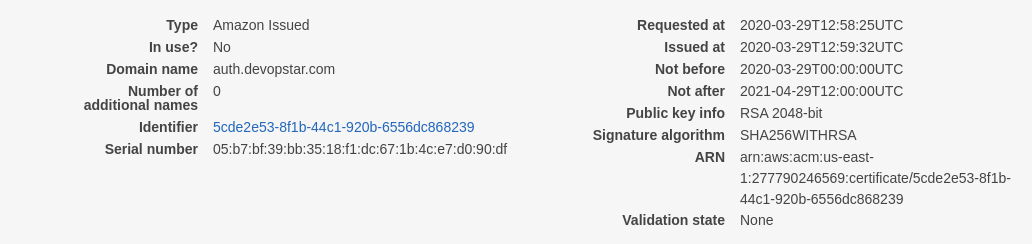
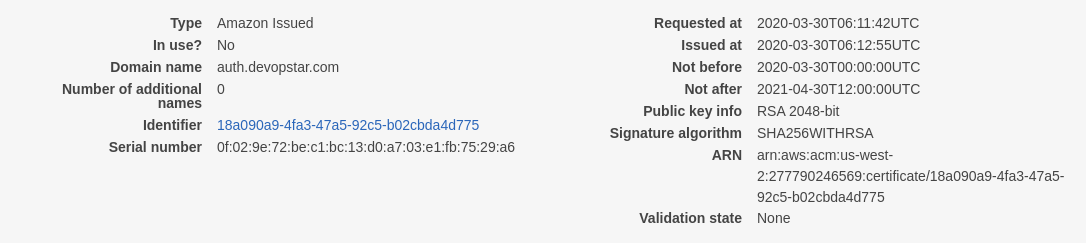
updated

diff --git a/.blog/README.md b/.blog/README.md
@@ -37,10 +37,10 @@ Run the following command from our project repo to deploy the stack.
 
 ```bash
 aws cloudformation create-stack \
-    --stack-name "eks-kubeflow-cognito" \
-    --template-body file://eks-kubeflow-cognito.yaml \
-    --capabilities CAPABILITY_IAM \
-    --region us-west-2
+  --stack-name "eks-kubeflow-cognito" \
+  --template-body file://eks-kubeflow-cognito.yaml \
+  --capabilities CAPABILITY_IAM \
+  --region us-west-2
 ```
 
 > Later in this tutorial you will need to retrieve the Cognito details from the CloudFormation stack. This is done by using the `aws cloudformation describe-stacks` CLI command.
@@ -72,14 +72,24 @@ Before continuing to the next step, take note of the Certificate ARN
 > NOTE: Take note of the ARN somewhere where we can use it later, in my case I'll export it as an environment variable
 
 ```bash
-export AWS_ACM_CERT_ARN=arn:aws:acm:us-east-1:XXXXXXXXXXXX:certificate/5cde2e53-8f1b-44c1-920b-6556dc868239
+export AWS_ACM_CERT_ARN=arn:aws:acm:us-west-2:XXXXXXXXXXXX:certificate/5cde2e53-8f1b-44c1-920b-6556dc868239
 ```
 
 ### Domain Setup (Cognito)
 
-Now that the certificate is validated head over to the Amazon Cognito console **in the us-west-2 region**.
+Now that the certificate is validated head over to the Amazon Cognito console **in the us-west-2 region**. Create a new custom domain, in this case I've used `kubeflow-devopstar`
 
-![Cognito Custom domain creation](img/eks-kubeflow-cognito-custom-domain.png)
+![Cognito Custom domain creation](img/cognito-custom-domain.png)
+
+> **NOTE:** You also update the first line in `eks-kubeflow-install.sh` to match what you set here
+
+```bash
+export COGNITO_AUTH_DOMAIN=kubeflow-devopstar
+```
+
+It's also worth checking that the Enabled Identity Providers box is selected and Cognito User Pool is checked
+
+![Enabled Identity Providers flag](img/cognito-enable-identity-provider.png)
 
 Finally head over to Route53 and under your domain (in my case devopstar.com) create an Alias A record with the CloudFront entry provided in the previous setup
 
@@ -120,8 +130,8 @@ wget -O kfctl_aws.yaml $CONFIG_URI
 sed -i -e 's/kubeflow-aws/'"$AWS_CLUSTER_NAME"'/' ${CONFIG_FILE}
 sed -i "s@us-west-2@$AWS_REGION@" ${CONFIG_FILE}
 
-# Disable IAM roles
-sed -i "s@eksctl-eks-kubeflow-nodegroup-ng-a2-NodeInstanceRole-xxxxx@$AWS_CLUSTER_NODE_ROLE@" ${CONFIG_FILE}
+# Update Node IAM roles
+sed -i "s@eksctl-$AWS_CLUSTER_NAME-nodegroup-ng-a2-NodeInstanceRole-xxxxx@$AWS_CLUSTER_NODE_ROLE@" ${CONFIG_FILE}
 
 # Cognito Details
 sed -i "s@arn:aws:acm:us-west-2:xxxxx:certificate/xxxxxxxxxxxxx-xxxx@$AWS_ACM_CERT_ARN@" ${CONFIG_FILE}
@@ -140,13 +150,13 @@ To check that things have worked open up the `eks-kubeflow/kfctl_aws.yaml` templ
     spec:
       auth:
         cognito:
-          certArn: arn:aws:acm:us-east-1:xxxxxxxxxxxxx:certificate/5cde2e53-8f1b-44c1-920b-6556dc868239
+          certArn: arn:aws:acm:us-west-2:xxxxxxxxxxxxx:certificate/5cde2e53-8f1b-44c1-920b-6556dc868239
           cognitoAppClientId: 4coatq7l46irmkacnohbgjpom2
           cognitoUserPoolArn: arn:aws:cognito-idp:us-west-2:xxxxxxxxxxxxx:userpool/us-west-2_Izsf6MKFn
-          cognitoUserPoolDomain: auth.devopstar.com
+          cognitoUserPoolDomain: kubeflow-devopstar
       region: us-west-2
       roles:
-      - "eksctl-eks-kubeflow-nodegroup-nod-NodeInstanceRole-1AV291G6VREQL"
+      - eksctl-eks-kubeflow-nodegroup-nod-NodeInstanceRole-1AV291G6VREQL
 ```
 
 ### Deploy
@@ -175,10 +185,20 @@ Take this endpoint and contruct the following variation of it with the OAuth for
 
 ```bash
 https://${CLUSTER_ENDPOINT}/oauth2/idpresponse
-# https://82aa8b05-istiosystem-istio-2af2-1293882277.us-west-2.elb.amazonaws.com/oauth2/idpresponse
+# https://82aa8b05-istiosystem-istio-2af2-280604513.us-west-2.elb.amazonaws.com/oauth2/idpresponse
 ```
 
 Back in the Cognito console under our `App client settings` insert the callback URL we just constructed
+
+![Cognito Callback URL set](img/cognito-callback-url-set.png)
+
+Now we will also need a demo user to work with, so go ahead and make a new one under the `Users and groups` tab in the User Pool settings
+
+![Cognito Create new user](img/cognito-create-new-user.png)
+
+Finally we can navigate to the cluster endpoint that you retrieved from the `kubectl` command above and you'll be able to login with Cognito authentication.
+
+![Cognito Login using new user](img/cognito-login-kubeflow.png)
 
 ### Get Started
 
@@ -207,6 +227,6 @@ eksctl delete cluster -f eks-kubeflow-cluster.yaml
 
 # Remove CloudFormation stack for cognito
 aws cloudformation delete-stack \
-    --stack-name "eks-kubeflow-cognito" \
-    --region us-west-2
+  --stack-name "eks-kubeflow-cognito" \
+  --region us-west-2
 ```
